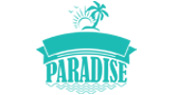
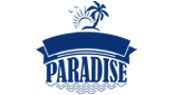
coloe changes

Changed region(s): [[0.2059, 0.0, 0.8235, 0.9895], [0.4412, 0.0632, 0.4706, 0.0842]]

diff --git a/css/style.css b/css/style.css
@@ -1,3 +1,6 @@
+:root{
+    --blue:rgb(1, 41, 112);
+}
 /* Spinner lodder */
 *{
     font-family: 'Montserrat' ;
@@ -27,7 +30,7 @@
 }
 .loader:before ,.loader:after{
     content:'';
-    border:1em solid #48C9C6;
+    border:1em solid  var(--blue);
     border-radius:50%;
     width: inherit;
     height: inherit;
@@ -61,7 +64,7 @@
     right: 39px;
     z-index: 98;
     padding: 21px;
-    background-color: #48C9C6;
+    background-color: var(--blue);
 	
 }
 
@@ -93,7 +96,7 @@
     width: var(--cd-back-to-top-size);
     box-shadow: 0 0 10px rgba(0, 0, 0, .05) !important;
     background: url(https://res.cloudinary.com/dxfq3iotg/image/upload/v1571057658/cd-top-arrow.svg) no-repeat center 50%;
-    background-color:#48C9C6;
+    background-color: var(--blue);
     background-color: hsla(var(--cd-color-3-h), var(--cd-color-3-s), var(--cd-color-3-l), 0.8);
 
 }
@@ -115,14 +118,14 @@
     height:30%;
 } */
 .logo{
-width: 80%;
+width: 70%;
 }
 a{
 	text-decoration: none;
 }
 /* container  div*/
 .container-fluid{
-	padding: 1% 10%;
+	padding: 0 10%;
 
 }
 
@@ -139,12 +142,12 @@ p{
 /*Navigation bar*/
 
 .nav-back{
-	background-color: #48C9C6;
+	background-color: var(--blue); 
     
 }
 .navbar{
 	padding:0 0 0rem;	
-    /*color: #5AACFF;*/
+    
    color: #fff;
 }
 .nav-item a{
@@ -202,14 +205,14 @@ p{
 }
 /* popular crisus */
 .popular_title{
-	color:#48C9C6;
+	color: var(--blue);
 }
 /* custumers */
 
 #happy1 {
     padding-bottom: 0px;
     padding-top: 50px;
-    background: url(../images/happy1.jpg) center center no-repeat;
+    background: url(../images/back.jpg) center center no-repeat;
     background-size: cover;
     color: #fff;
 }
@@ -246,7 +249,7 @@ color:#fff;
 }
 
 .distance1 .bg .animated-distance {
-    background: #48C9C6;
+    background: var(--blue);
     position: absolute;
     left: 0 ;
 	top: 0;
@@ -288,7 +291,7 @@ color:#fff;
 .team_card {
     width: 100%;
     height: 20%;
-    background-color:rgba(72, 201, 198,0.8);
+    background-color:rgba(1, 41, 112,0.8);
     top: 100%;
     left: 0;
     position: absolute;
@@ -317,7 +320,7 @@ i{
 }
 
 a:hover{
-	color: #48C9C6;
+	color:  var(--blue);
 	text-decoration: none;
 }
 
@@ -329,20 +332,23 @@ color: rgba(255,255,255,0.5);
 	padding: 10px 20px; 
 }
 .footer_logo_4 a:hover{
-	background-color: #48C9C6;
+	background-color:  var(--blue);
 	color: white;
 	text-decoration: none;
 }
 .footer_logo_4 span	{
 font-size: 25px;
-color: #48C9C6;
+color: var(--blue);;
 
 }
 
 /* about page */
-
+.travel_title
+{
+    color:var(--blue);
+}
 .best_title h1{
-    color: #48C9C6;
+    color: var(--blue);
 }
 figure{
     position: relative;
@@ -361,32 +367,32 @@ figure{
    opacity: 0;
 }
 .best_card h3:hover{
-    color: #48C9C6;
+    color: var(--blue);
 }
 .best_card a{
     color: gray;
 }
 .best_card a:hover{
-    color:#48C9C6;
+    color: var(--blue);
 }
 
 /* ABout Our Company */
 .company_title h1{
-    color: #48C9C6;
+    color: var(--blue);
 }
 /* team */
 .team{
     background-color: #FAFAFA;
 }
 .team_title h1{
-    color: #48C9C6;
+    color:  var(--blue);
 }
 /* contact_page  */
 /* .contact-info h1{
 color: #48C9C6;
 } */
 .contact-info h3{
-    color: #48C9C6;
+    color:  var(--blue);
     }
     .contact-info a{
         color:lightgray;
@@ -394,13 +400,13 @@ color: #48C9C6;
         .contact-button{
             border: 1px solid #FFF;
             color: white;
-            background-color: #48C9C6;
+            background-color: var(--blue);
             outline: none;
             border-radius: 4px;
         }
         .contact-button:hover{
             background-color: #fff;
-            color: #48C9C6;
+            color:  var(--blue);
         }
         input{
             border-radius: 4px;
@@ -422,27 +428,25 @@ color: #48C9C6;
         .tour-btn{
             width: 100%;
             height: 60px;
-            background-color: #48C9C6;
+            background-color:  var(--blue);
             color: white;
             font-weight: 600;
-            border: 2px #48C9C6 solid;
+            border: 2px  var(--blue) solid;
             border-radius:5px ;
             box-shadow: none;
         }
         
         .tour-btn:hover{
             background-color: #fff;
-            color: #48C9C6;
+            color:  var(--blue);
             font-weight: 600;
-            border: 2px #48C9C6 solid;
+            border: 2px  var(--blue) solid;
             border-radius:5px ;
         }
         .tour-header
         {
             margin: 30px 0;
-            color: #48C9C6;
-        }
+            color:  var(--blue);
         
        
-
-       
+        }

diff --git a/about.html b/about.html
@@ -212,7 +212,7 @@
 
             <div class="col-lg-6 col-md-12 col-sm-12 col-12 wow fadeInRight " data-wow-duration="3s">
                 <div class="about_info ">
-                    <h3 class="text-sm-center  mt-sm-5 ">TRAVEL AGENCY</h3>
+                    <h3 class="text-sm-center mt-sm-5 travel_title">TRAVEL AGENCY</h3>
                     <p class="text-sm-center">Lorem ipsum dolor sit amet, consectetuer adipiscing elit, sed diam nonummy
                         nibh euismod tincidunt
                         ut laoreet dolore magna aliquam erat volutpat. Ut wisi enim ad minim veniam, quis nostrud exerci
